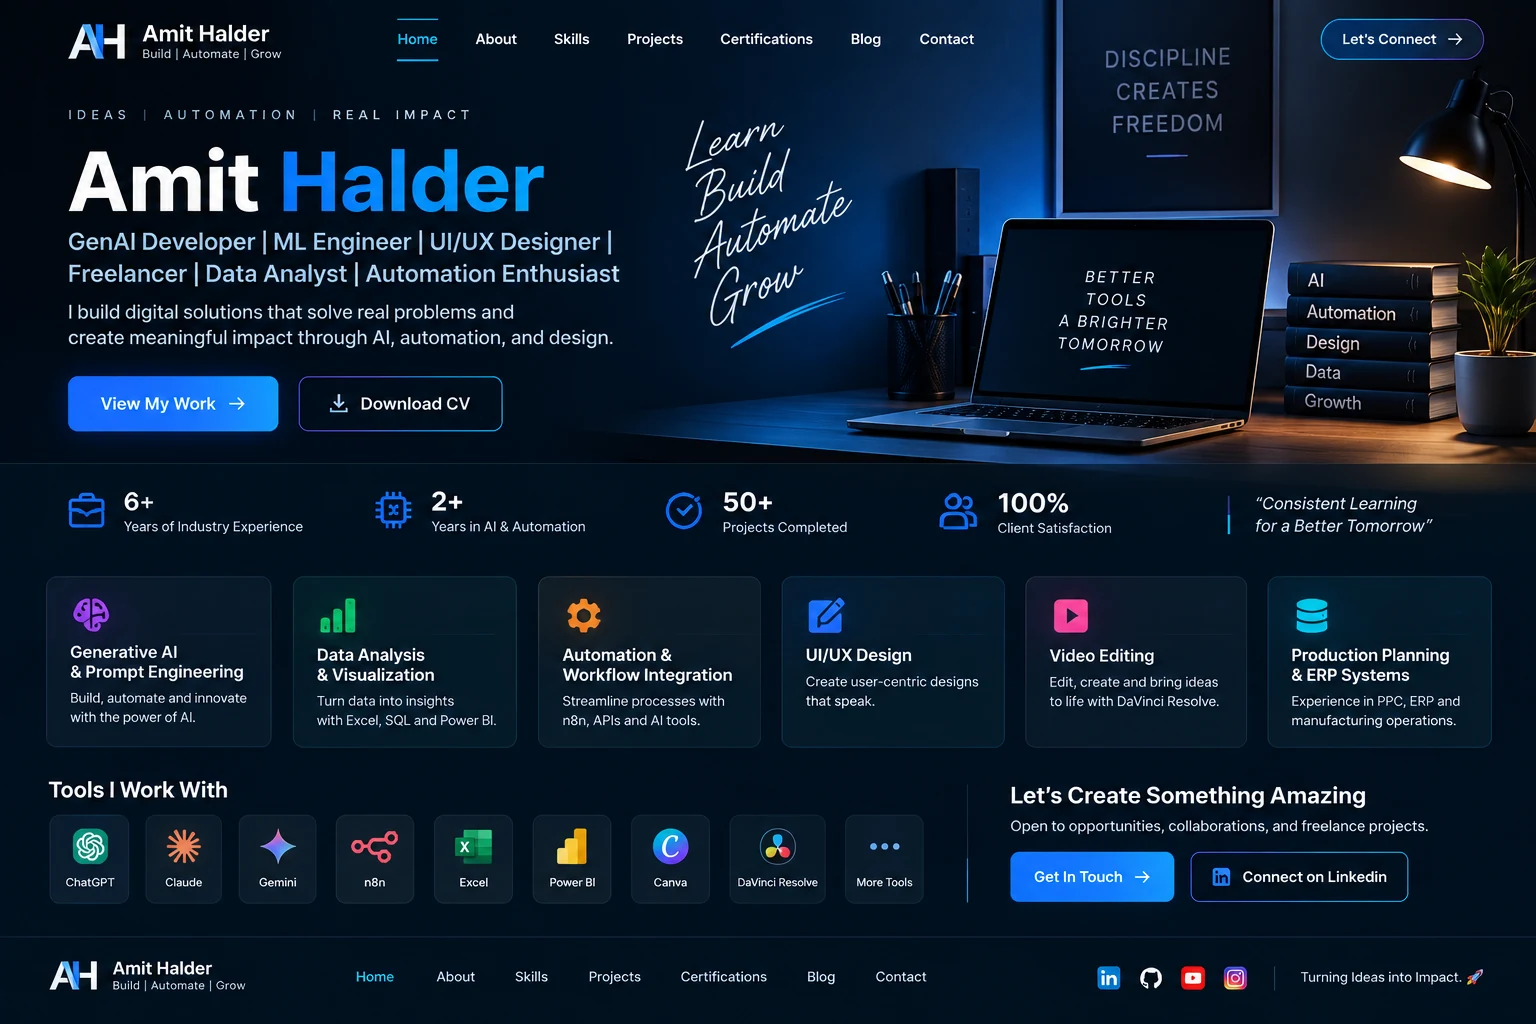
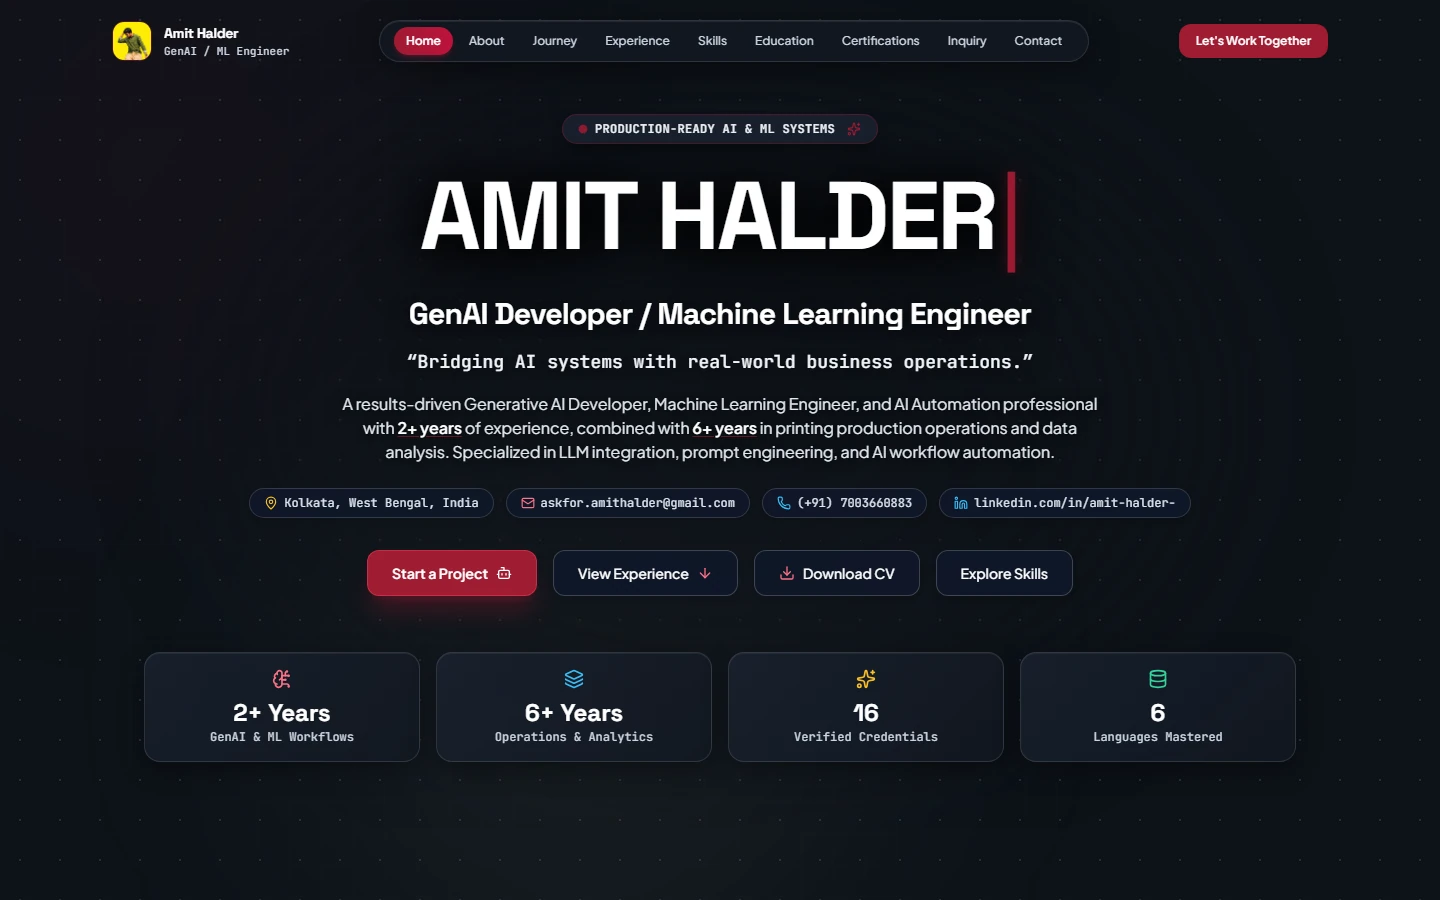
Update ML portfolio link and preview

diff --git a/src/components/portfolio/PortfolioShowcaseModal.tsx b/src/components/portfolio/PortfolioShowcaseModal.tsx
@@ -61,7 +61,7 @@ export const PortfolioShowcaseModal: React.FC<PortfolioShowcaseModalProps> = ({
         {/* Visual Preview Screenshot (Preserving existing preview image, No iframe) */}
         <div className="relative rounded-xl overflow-hidden border border-slate-700/80 bg-slate-950 shadow-xl group">
           <img
-            src="/projects/amit-halder-portfolio.webp"
+            src="/projects/ml-portfolio-preview-v2.webp"
             alt="Amit Halder — Machine Learning & AI Portfolio Showcase"
             loading="lazy"
             className="w-full h-44 sm:h-56 md:h-64 object-cover object-top transition-transform duration-500 group-hover:scale-[1.01]"
@@ -73,7 +73,7 @@ export const PortfolioShowcaseModal: React.FC<PortfolioShowcaseModalProps> = ({
               Live Interactive Portfolio Preview
             </span>
             <a
-              href="/projects/amit-halder-portfolio.webp"
+              href="/projects/ml-portfolio-preview-v2.webp"
               target="_blank"
               rel="noopener noreferrer"
               className="px-2 py-0.5 rounded text-[10px] font-mono bg-black/80 hover:bg-slate-800 text-slate-300 hover:text-white border border-slate-700 transition-colors inline-flex items-center gap-1"

diff --git a/src/sections/About.tsx b/src/sections/About.tsx
@@ -152,7 +152,7 @@ export const About: React.FC = () => {
                     className="relative rounded-xl overflow-hidden border border-amber-500/30 hover:border-amber-400/60 bg-slate-950 group/img cursor-pointer transition-all duration-300 hover:shadow-[0_12px_28px_-10px_rgba(245,158,11,0.25)] flex flex-col justify-end"
                   >
                     <img
-                      src="/projects/amit-halder-portfolio.webp"
+                      src="/projects/ml-portfolio-preview-v2.webp"
                       alt="Amit Halder — Machine Learning & AI Portfolio Showcase"
                       loading="lazy"
                       className="w-full h-36 sm:h-40 object-cover object-top opacity-85 group-hover/img:opacity-100 group-hover/img:scale-[1.02] transition-all duration-300"
